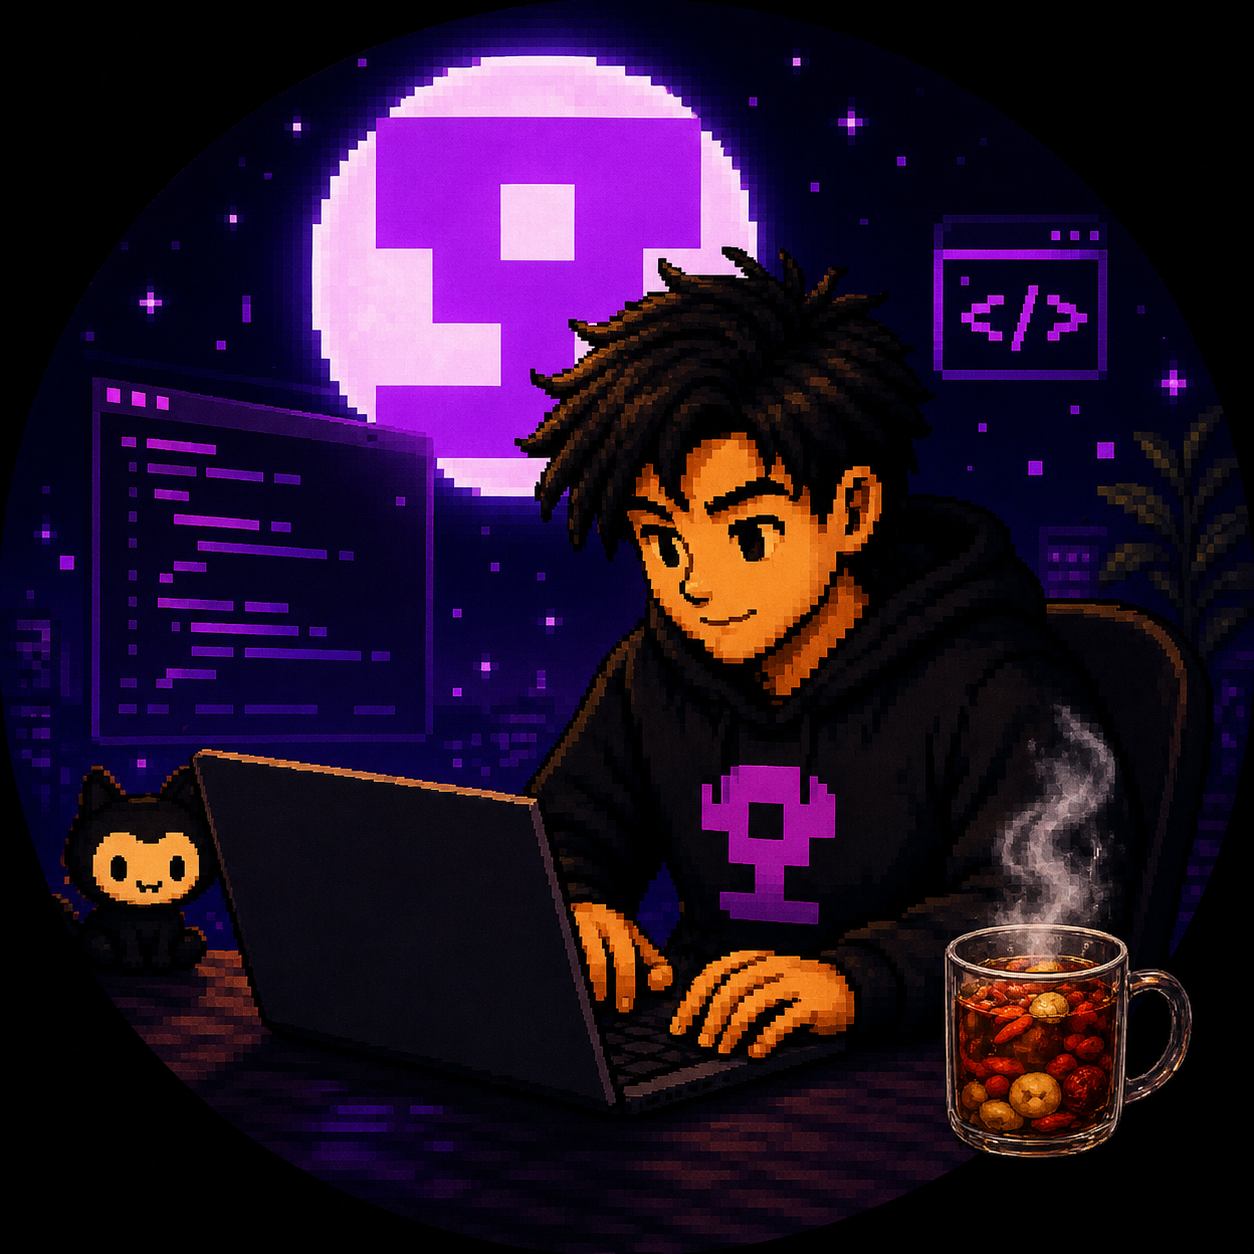
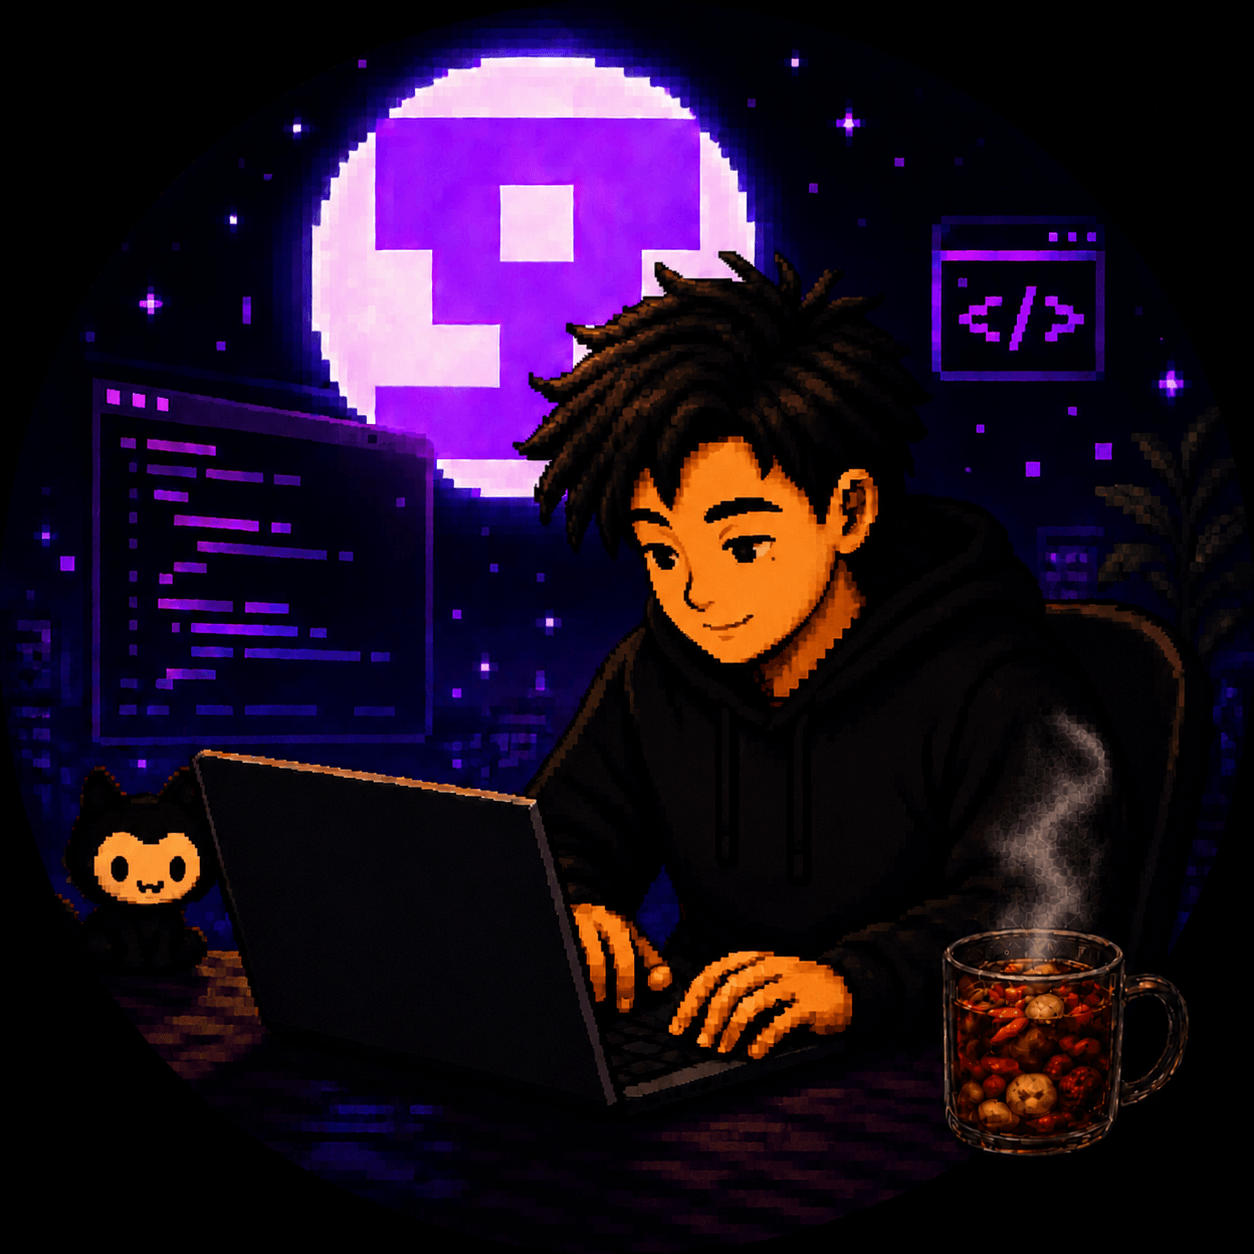
Small adjustments on the images

diff --git a/README.md b/README.md
@@ -22,7 +22,7 @@
 
 ## 🏄 About Me
 
-<img align="right" alt="Coding by the Ocean" width="300" src="./assets/coding-ocean-pixel.png">
+<img align="right" alt="Coding by the Ocean" width="300" src="./assets/coding_ocean_pixel.png">
 
 <div>
 
